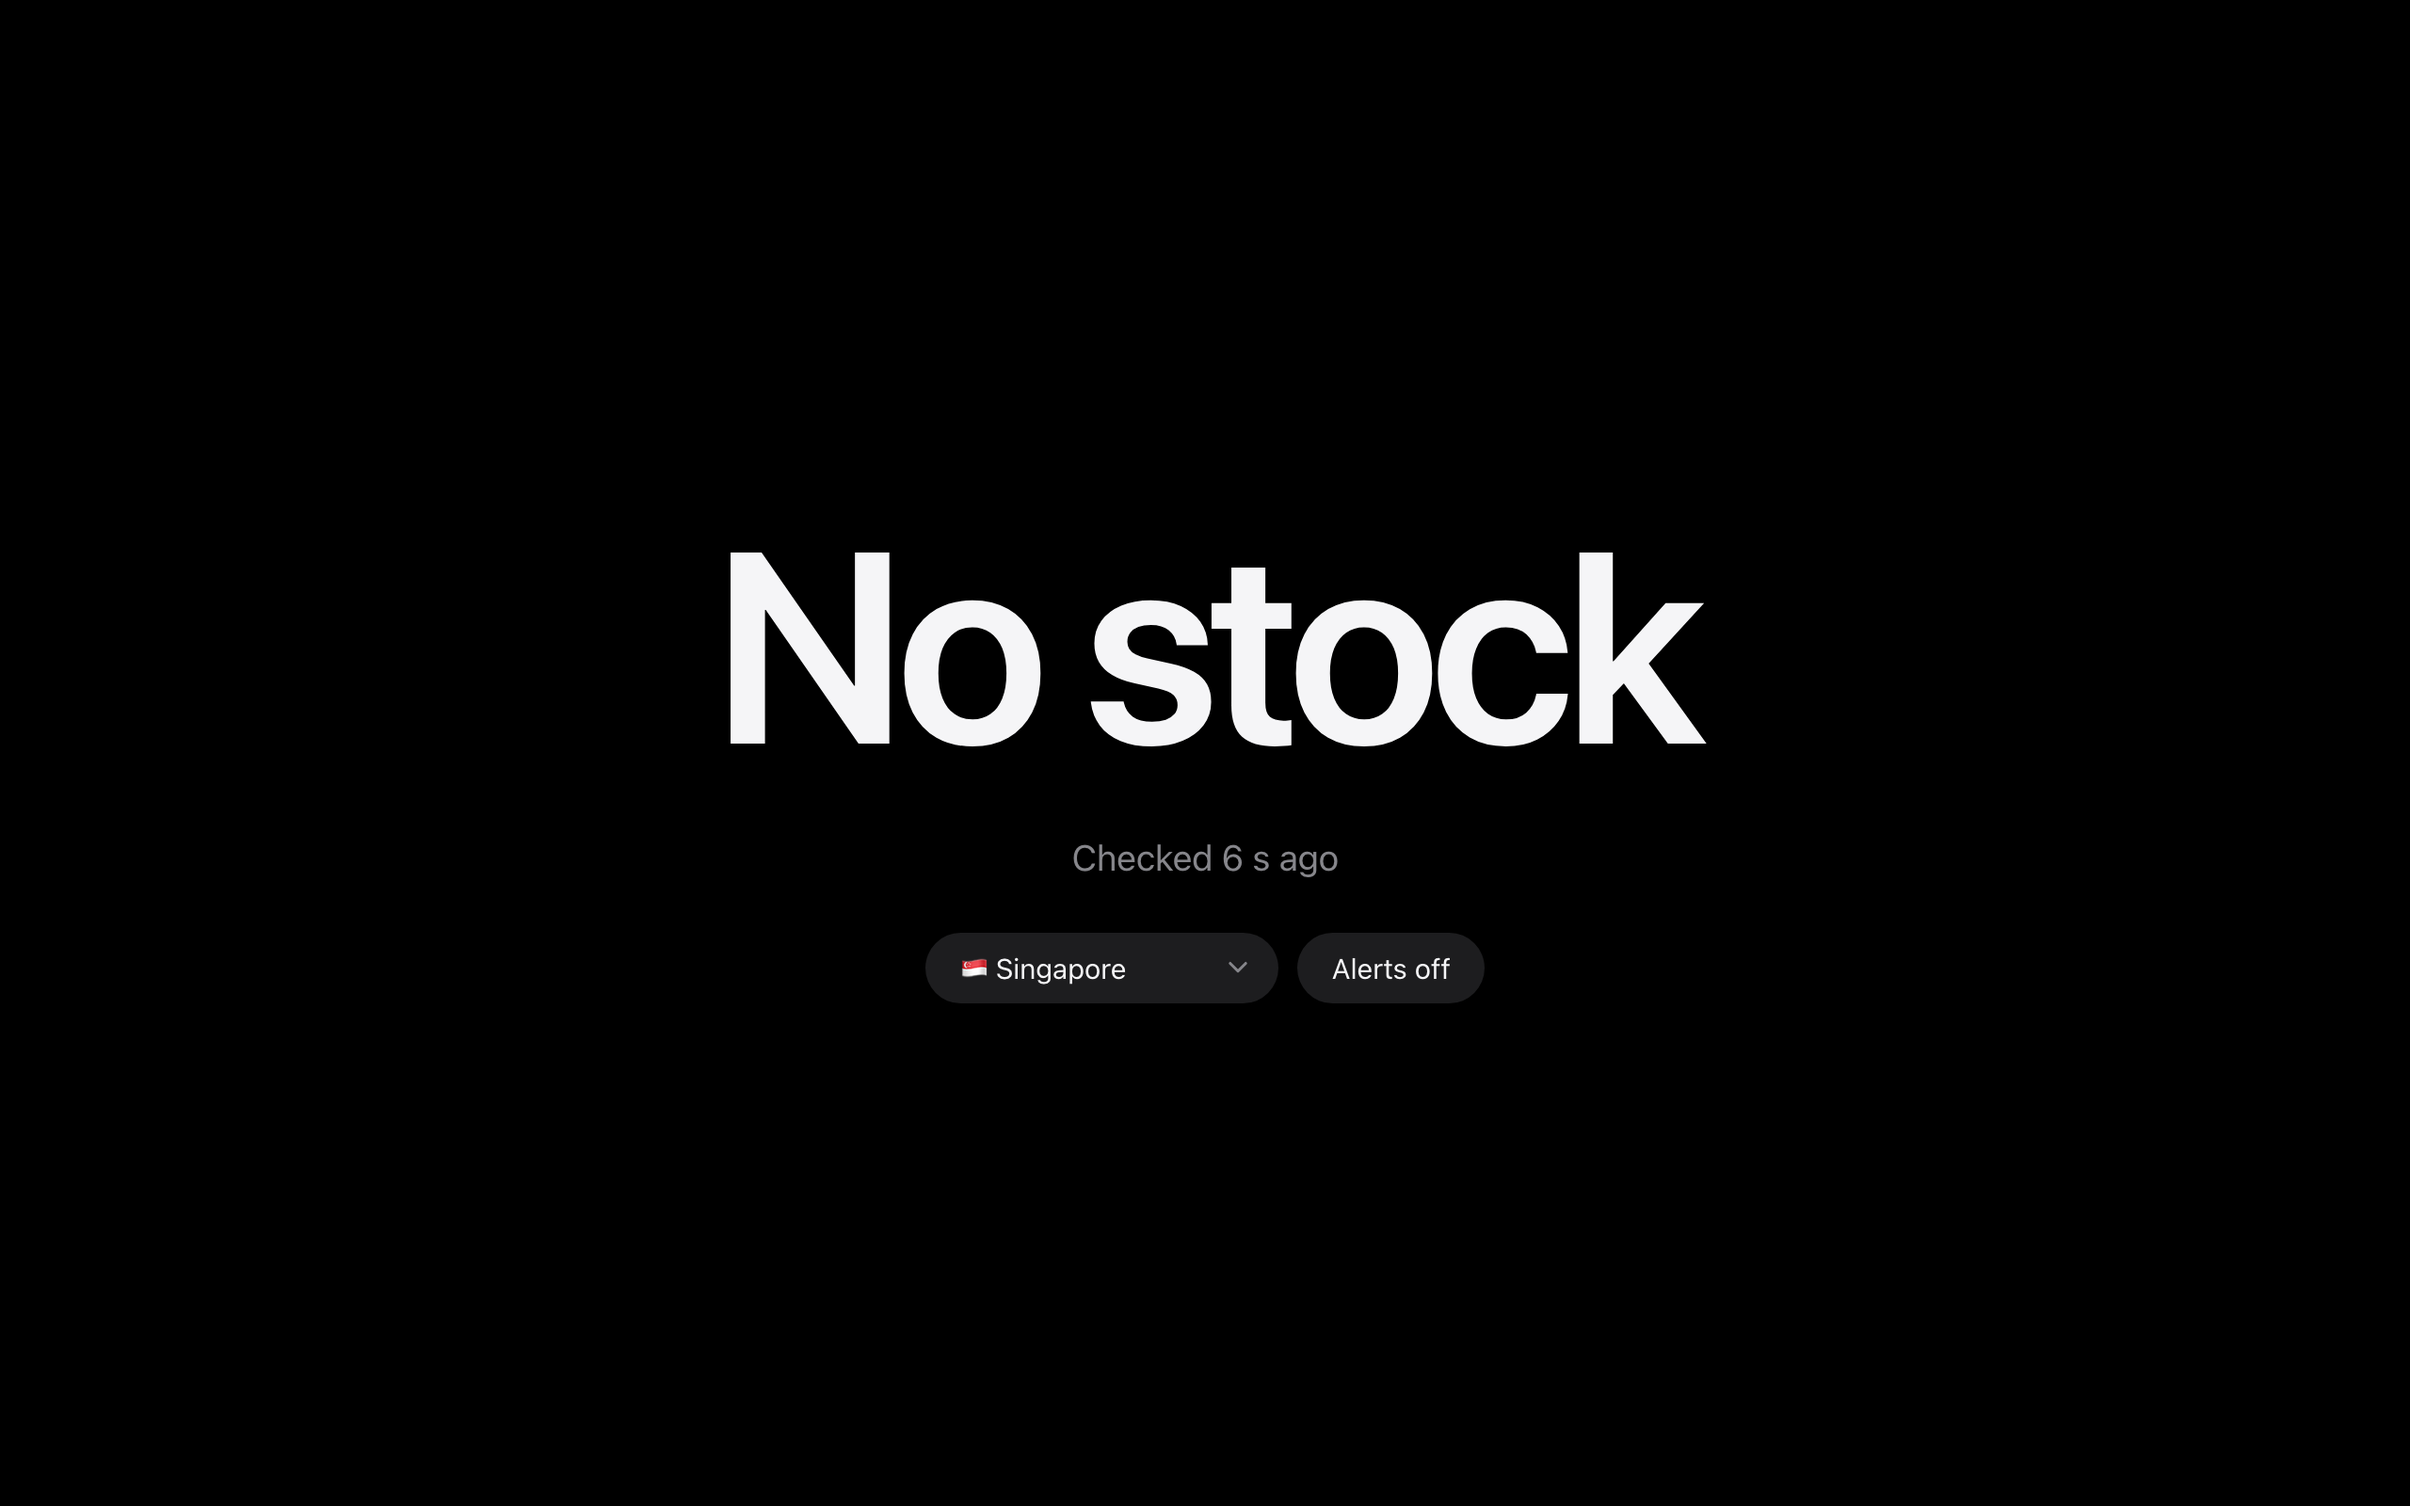
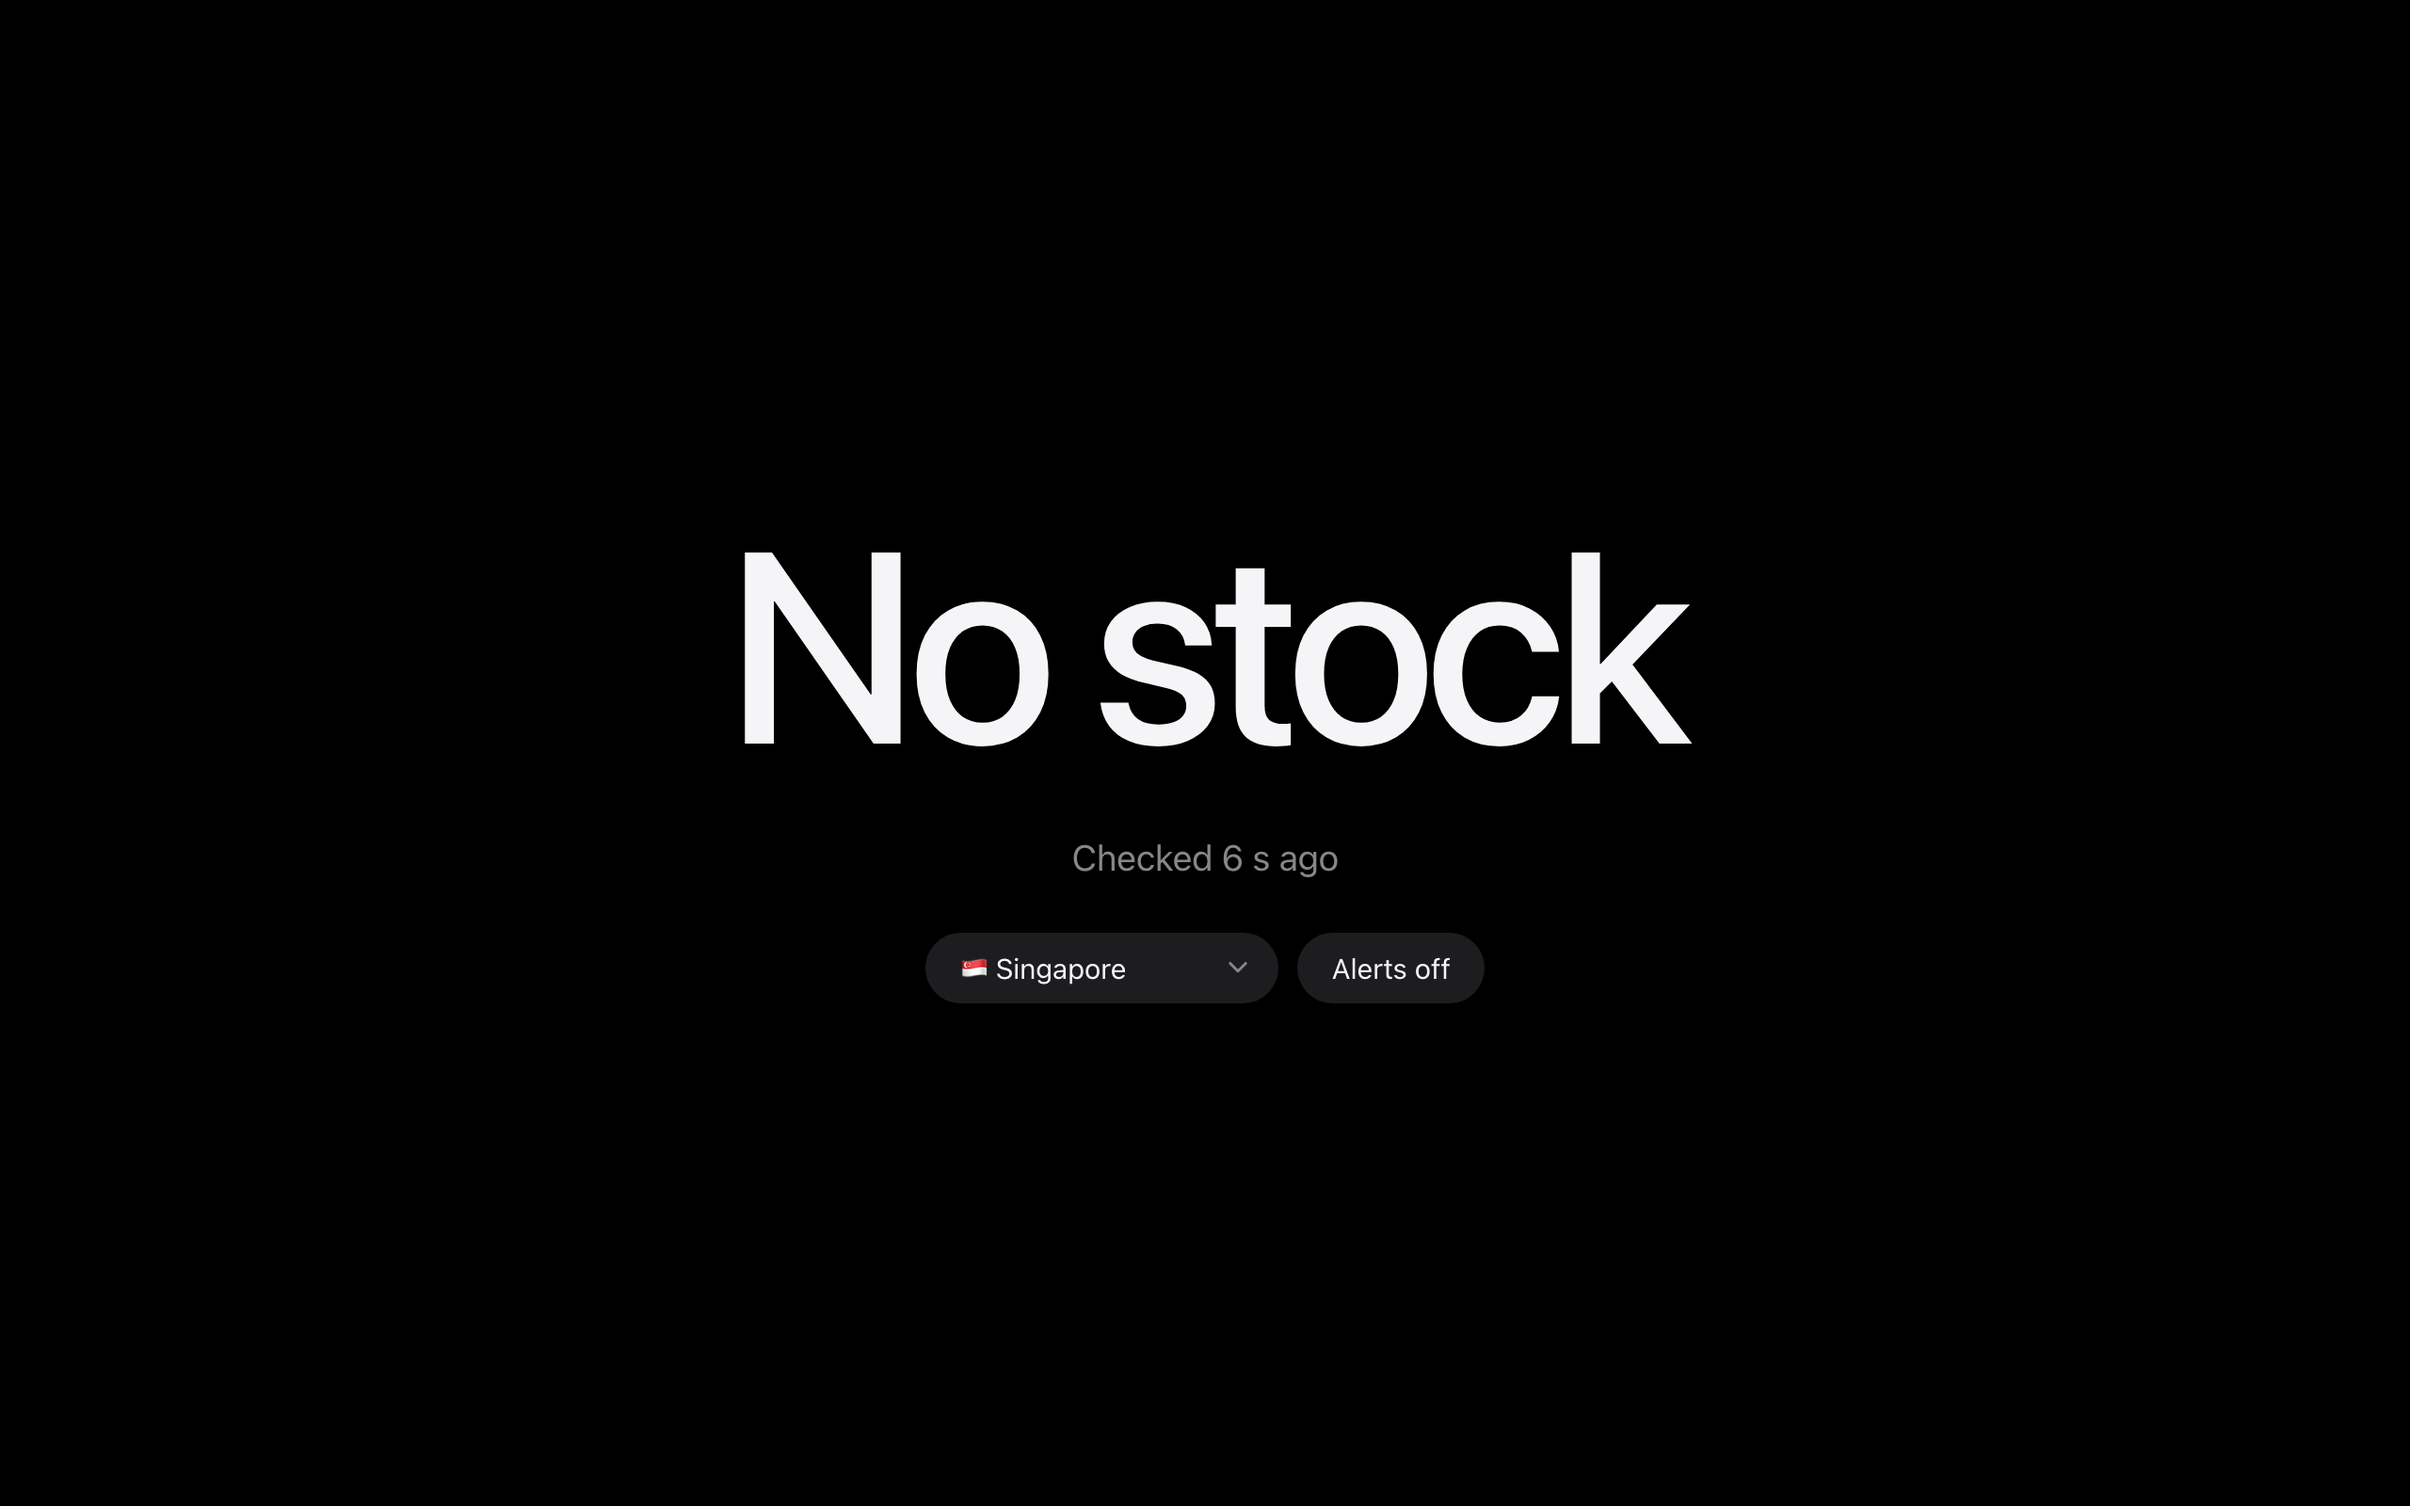
Use medium weight for headline and stock rows

Changed region(s): [[0.2812, 0.3438, 0.5625, 0.5], [0.5625, 0.375, 0.7188, 0.5]]

diff --git a/index.html b/index.html
@@ -21,7 +21,7 @@
     padding: 24px 16px; box-sizing: border-box;
   }
   main { width: 100%; max-width: 820px; display: flex; flex-direction: column; align-items: center; gap: 26px; min-width: 0; }
-  h1 { font-weight: 600; font-size: clamp(56px, 15vw, 144px); line-height: 1.03; letter-spacing: -0.035em; margin: 0; text-wrap: balance; }
+  h1 { font-weight: 500; font-size: clamp(56px, 15vw, 144px); line-height: 1.03; letter-spacing: -0.035em; margin: 0; text-wrap: balance; }
   .sub { color: var(--muted); font-size: clamp(15px, 2.2vw, 19px); font-variant-numeric: tabular-nums; min-height: 1.47em; }
   .hits { width: 100%; display: flex; flex-direction: column; gap: 12px; margin: 0; padding: 0; list-style: none; }
   .hits a {
@@ -29,7 +29,7 @@
     background: var(--card); color: var(--fg); text-decoration: none; border-radius: 22px;
     padding: clamp(18px, 3.4vw, 28px) clamp(20px, 4vw, 32px);
   }
-  .hits .what { min-width: 0; font-size: clamp(22px, 4.6vw, 36px); font-weight: 600; letter-spacing: -0.02em; line-height: 1.15; }
+  .hits .what { min-width: 0; font-size: clamp(22px, 4.6vw, 36px); font-weight: 500; letter-spacing: -0.02em; line-height: 1.15; }
   .hits small { display: block; color: var(--muted); font-size: clamp(15px, 2.4vw, 19px); font-weight: 400; letter-spacing: 0; margin-top: 4px; }
   .hits .go { background: var(--accent); color: var(--on-accent); border-radius: 980px; padding: 10px 22px; font-size: 17px; white-space: nowrap; }
   .note { background: var(--card); border-radius: 18px; padding: 16px 20px; font-size: 15px; }
